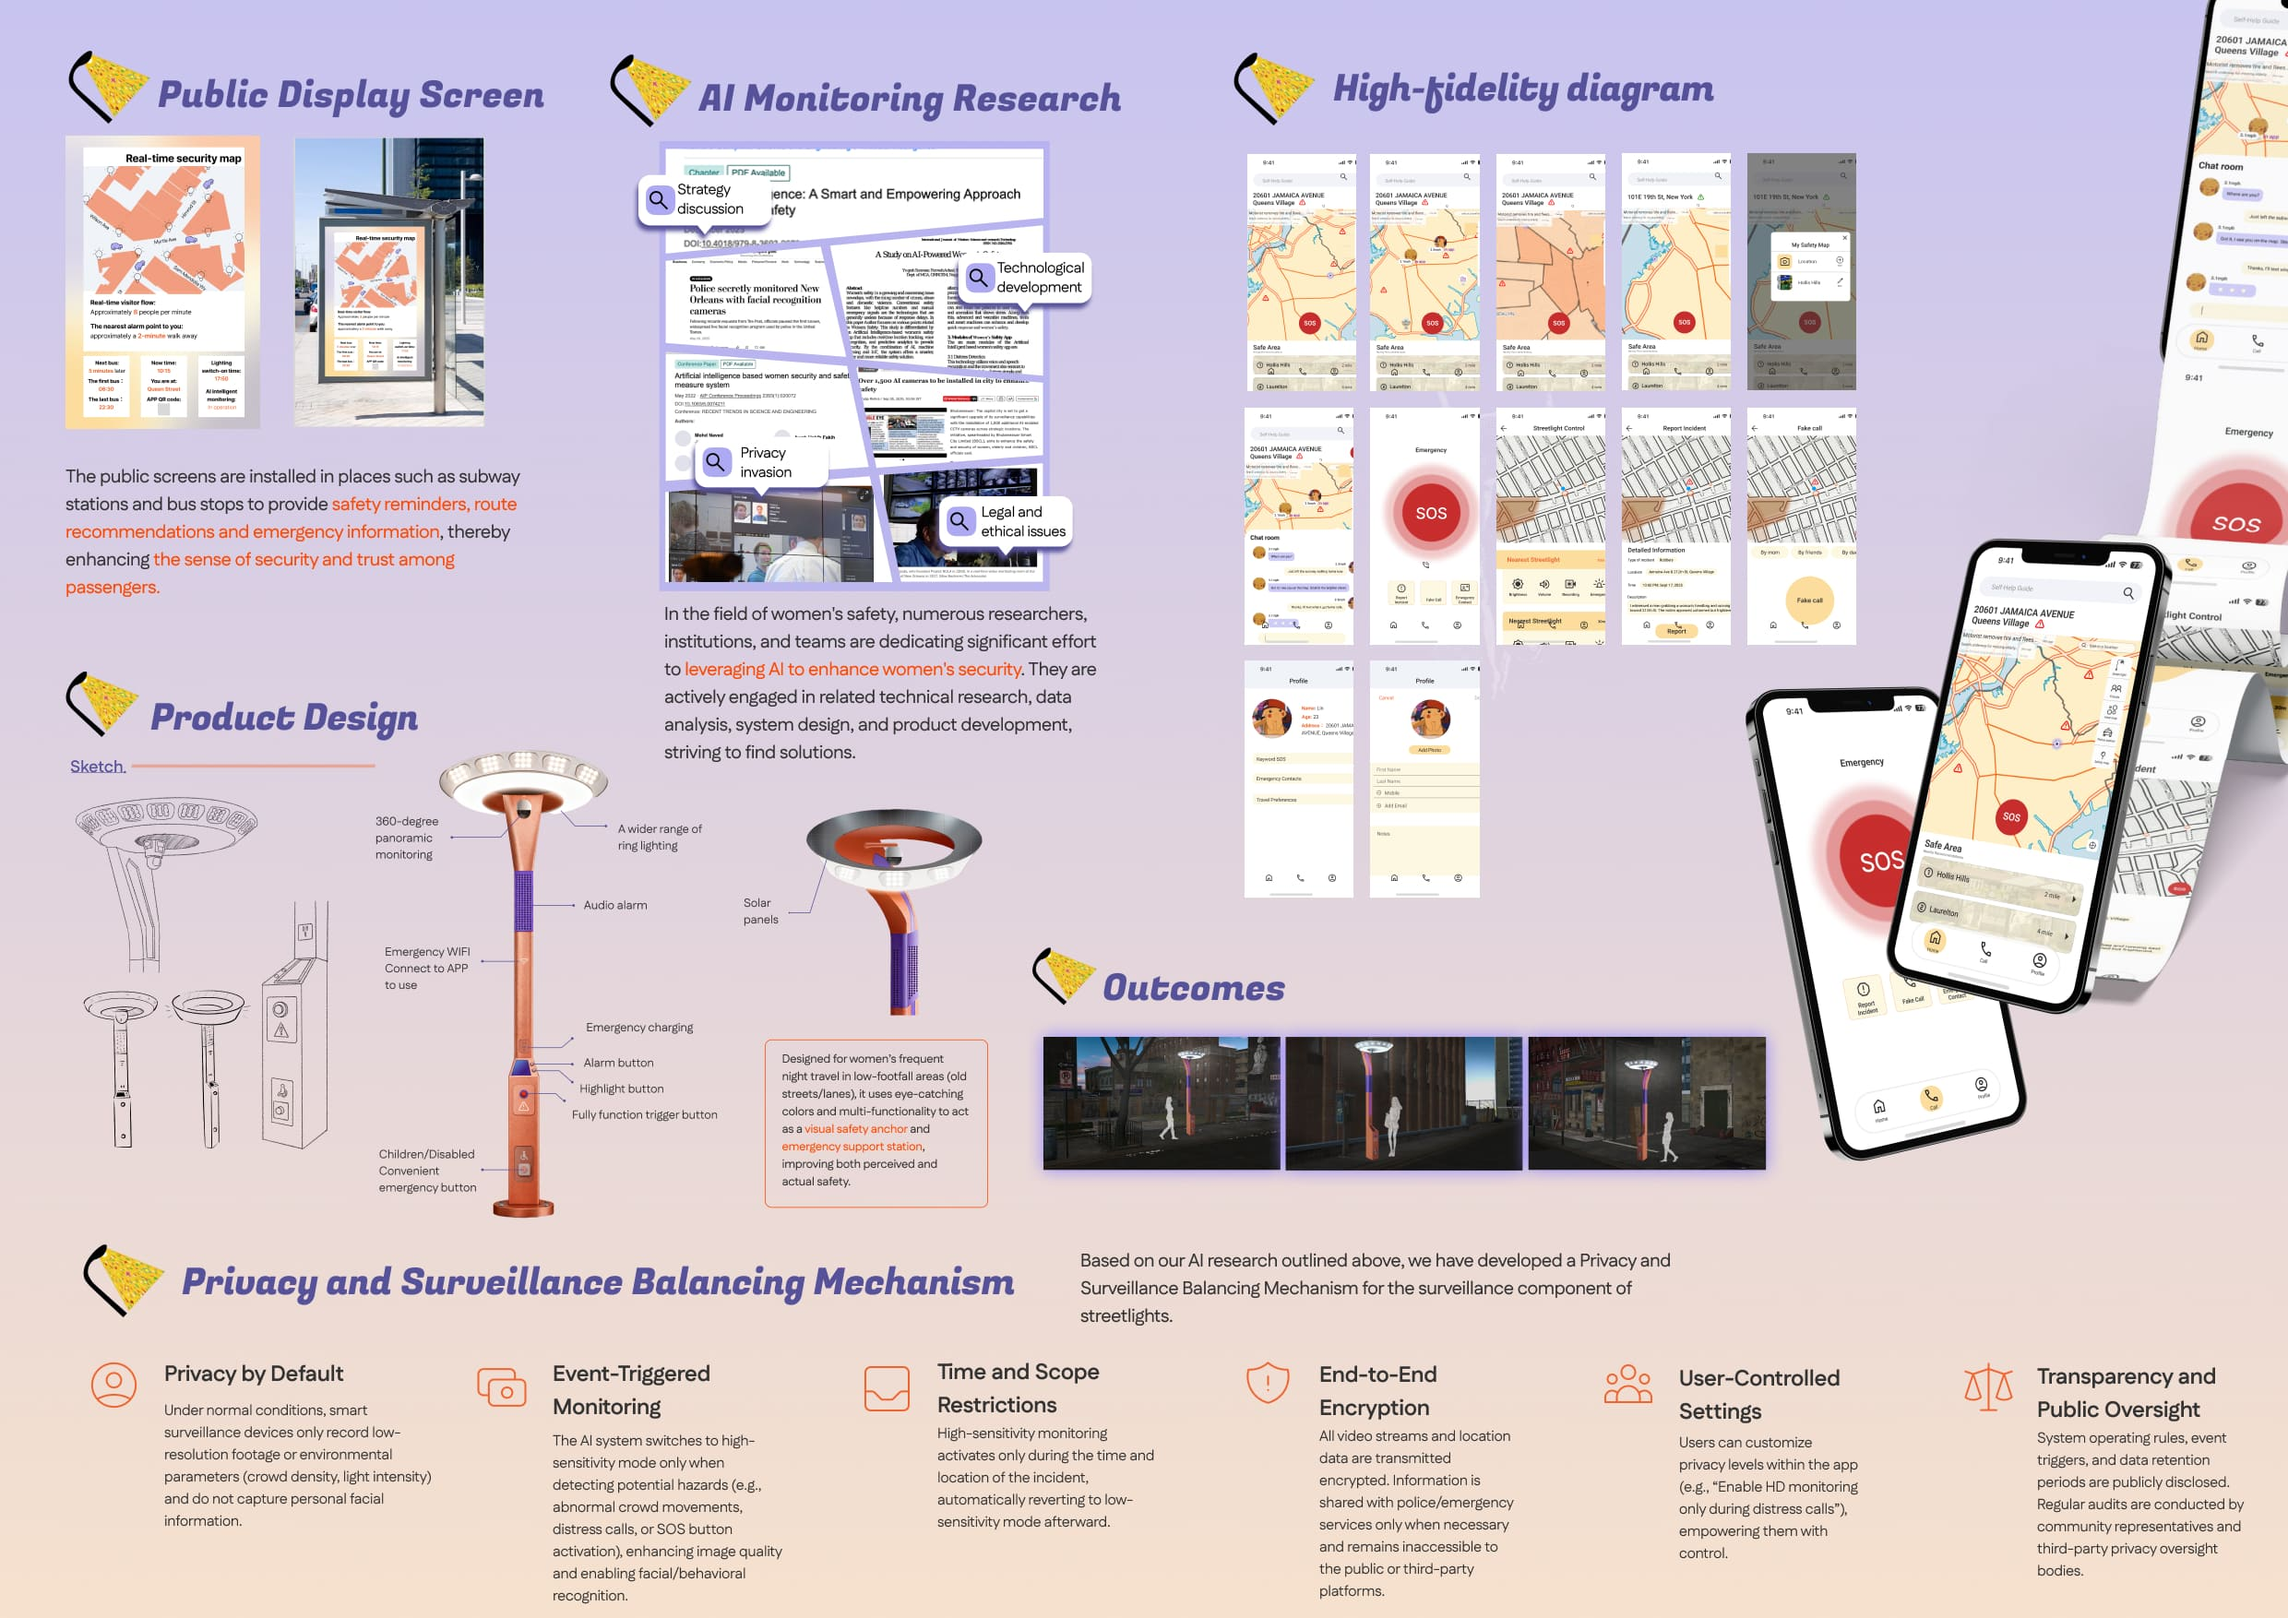
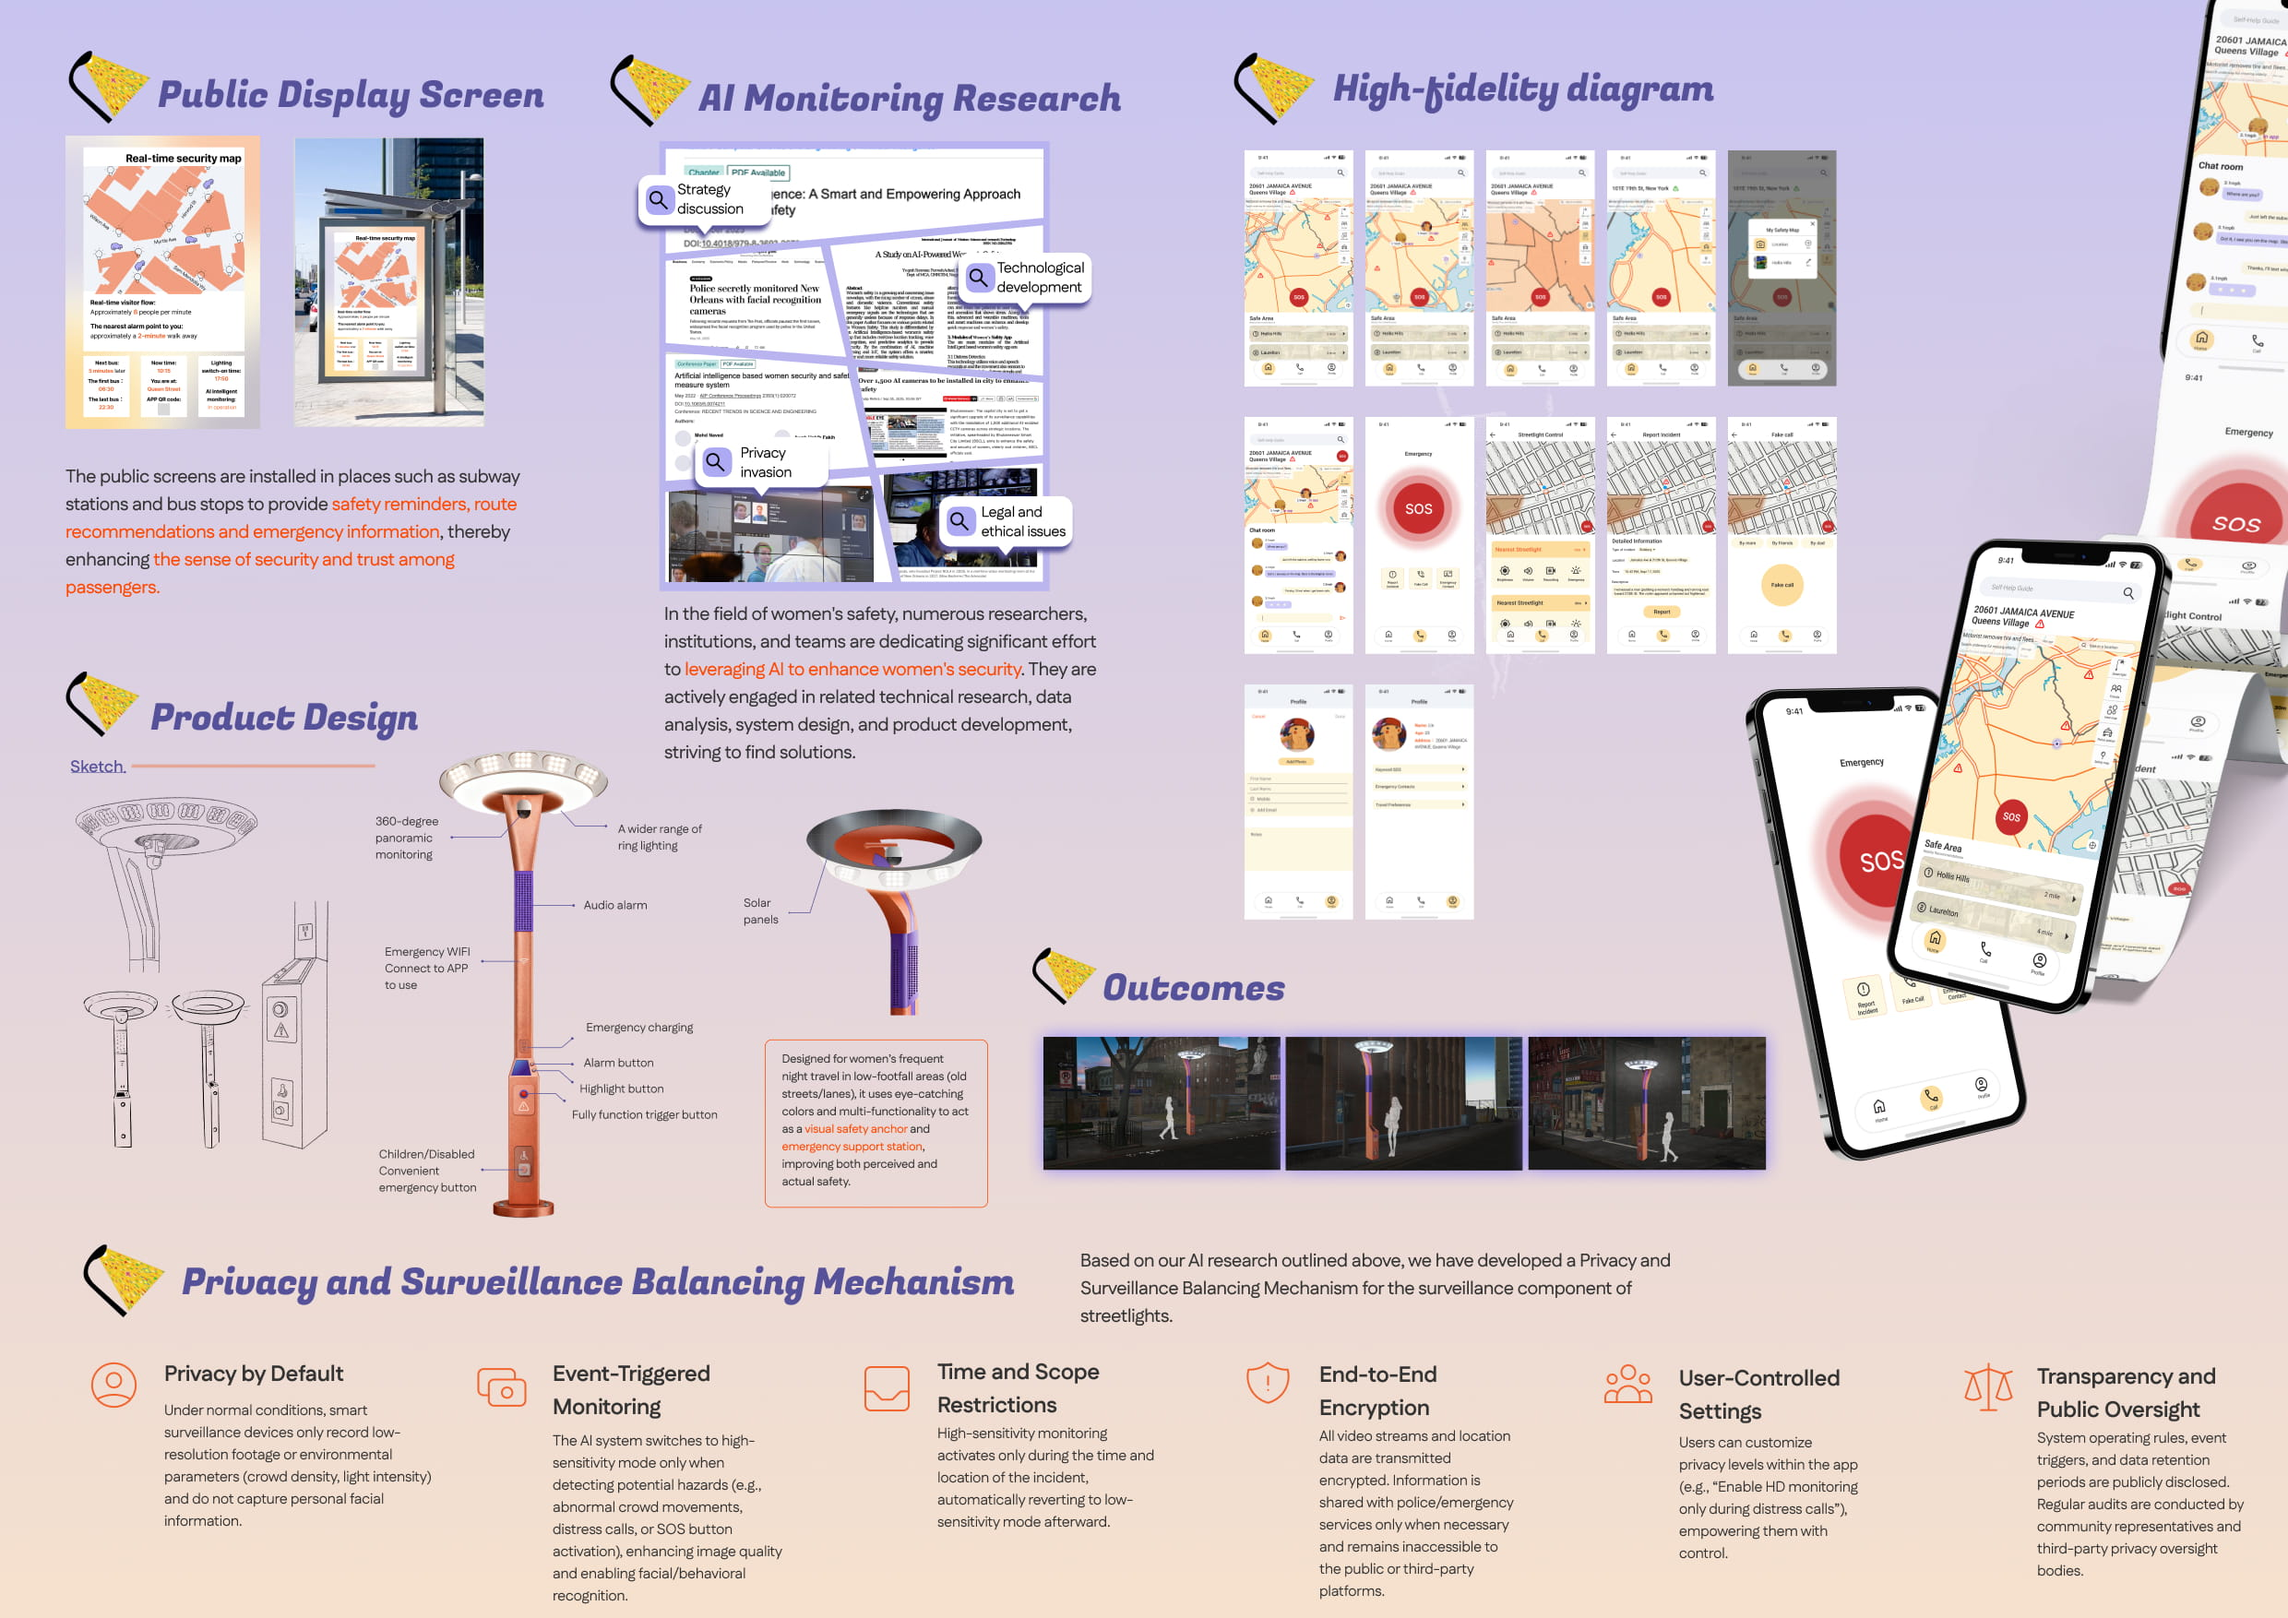
change ui

Changed region(s): [[0.5278, 0.0924, 0.8383, 0.5849], [0.031, 0.3387, 0.1242, 0.3694], [0.1242, 0.3079, 0.1863, 0.3387]]

diff --git a/projects/aqua/index.html b/projects/aqua/index.html
@@ -24,7 +24,7 @@
     <article>
         <p>This project envisions a future-oriented aquarium that blends education, environmental awareness, and immersive spatial experience. Through transparent structures, narrative spaces, and human-ocean interactions, it encourages visitors to rethink marine protection and our relationship with the sea.
         </p>
-        <img src="../../images/4-1.jpg" alt="halo1" width="600">
+        <img src="../../images/4-1.png" alt="halo1" width="600">
         <img src="../../images/4-2.jpg" alt="halo1" width="600">
         <img src="../../images/4-3.jpg" alt="halo1" width="600">
         <img src="../../images/4-4.jpg" alt="halo1" width="600">
